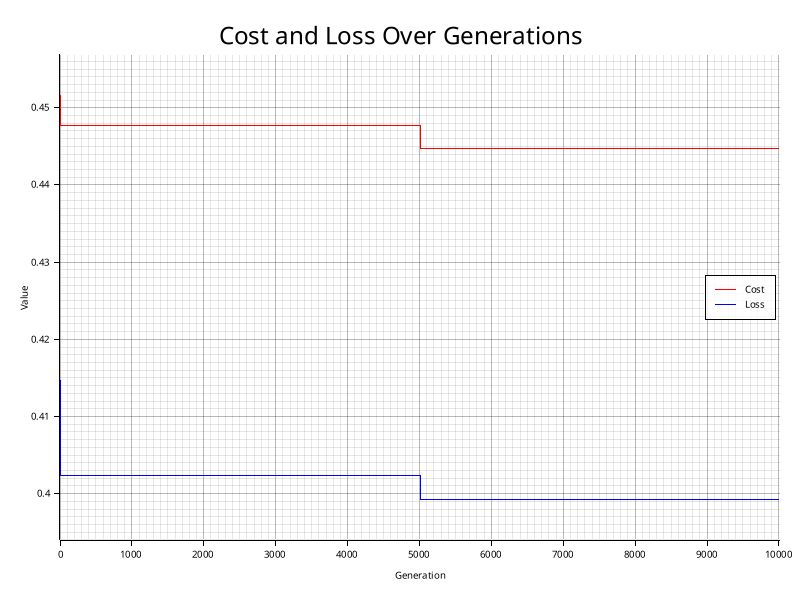
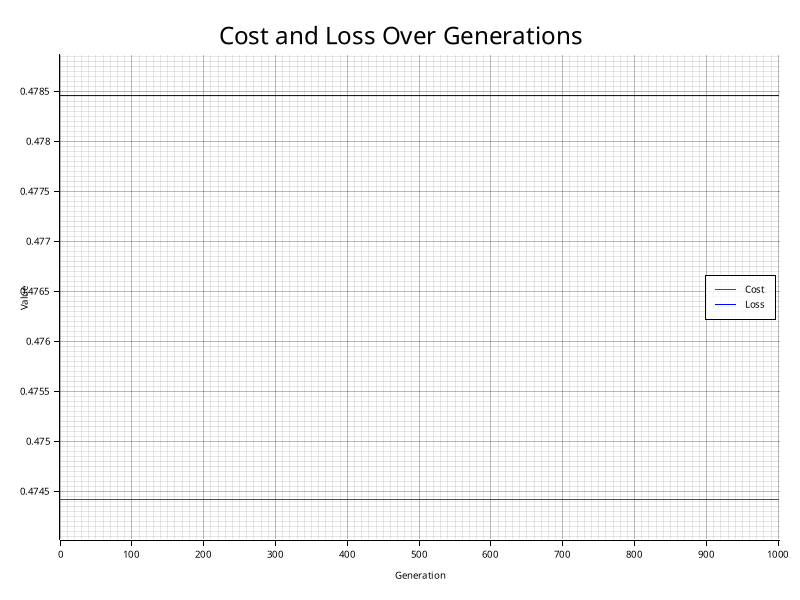
Add multi-run validation and CSV output for optimization results

Changed region(s): [[0.0312, 0.09, 1.0, 0.93]]

diff --git a/src/algorithms/soo/soo.rs b/src/algorithms/soo/soo.rs
@@ -5,8 +5,9 @@ use rand::Rng;
 use crate::{structs::combination::Combination, utils::read_data::read_data};
 use plotters::prelude::*;
 const POPULATION_SIZE: usize = 100;
-const MAX_GENERATIONS: usize = 10000;
+const MAX_GENERATIONS: usize = 1000;
 const TOURNAMENT_SIZE: usize = 3;
+const W : f64 = 0.5;
 
 pub fn generate_population(n: usize) -> Vec<Vec<bool>>{
 
@@ -22,30 +23,29 @@ pub fn generate_population(n: usize) -> Vec<Vec<bool>>{
     return population;
 }
 
-pub fn cost_function(combinations: &Vec<Combination>, solution: &Vec<bool>) -> f64 {
+pub fn cost_function(combinations: &Vec<Combination>, solution: &Vec<bool>, largest_loss:f64, w: f64) -> f64 {
+    let mut loss = get_loss(combinations, solution);
+    loss = loss / largest_loss;
     let mut feature_count = 0;
-    let mut cost = 0.0;
     for feature in solution {
         if *feature {
             feature_count += 1;
         }
     }
-    if feature_count == 0 {
-        return f64::MAX;
-    }
-    
-    cost = get_loss(combinations, solution);
+    let feature_count = feature_count as f64 / solution.len() as f64;
+    let cost = w * loss + (1.0 - w) * feature_count;
+    return cost;
 
-    return cost + (feature_count as f64 / (10.0 * solution.len() as f64) as f64);
+
 }
 
-pub fn tournament_selection(population: &Vec<Vec<bool>>, combinations: &Vec<Combination>) -> Vec<bool> {
+pub fn tournament_selection(population: &Vec<Vec<bool>>, combinations: &Vec<Combination>, largest_loss:f64) -> Vec<bool> {
     let mut rng = rand::rng();
     let mut best_solution = population[rng.random_range(0..population.len())].clone();
-    let mut best_cost = cost_function(combinations, &best_solution);
+    let mut best_cost = cost_function(combinations, &best_solution, largest_loss, W);
     for _ in 0..TOURNAMENT_SIZE {
         let solution = population[rng.random_range(0..population.len())].clone();
-        let cost = cost_function(combinations, &solution);
+        let cost = cost_function(combinations, &solution, largest_loss, W);
         if cost < best_cost {
             best_solution = solution;
             best_cost = cost;
@@ -102,14 +102,20 @@ pub fn get_loss(combinations: &Vec<Combination>, solution: &Vec<bool>) -> f64 {
 pub fn genetic_algorithm(combinations: &Vec<Combination>) -> (Combination, f64, Vec<(f64, f64)>) {
     let n = combinations[0].combination.len();
     let mutation_rate = 1.0 / n as f64;
+    let mut largest_loss = 0.0;
+    for combination in combinations {
+        if combination.loss > largest_loss {
+            largest_loss = combination.loss;
+        }
+    }
 
     let mut population = generate_population(n);
     let mut costs = Vec::new();
-    let mut best_solution: Combination = Combination {combination: Vec::new(), loss: f64::MAX};
-    let mut best_cost = cost_function(&combinations, &best_solution.combination);
+    let mut best_solution: Combination = Combination { combination: population[0].clone(), loss: get_loss(&combinations, &population[0]) };
+    let mut best_cost = cost_function(&combinations, &best_solution.combination, largest_loss, W);
 
     for solution in &population{
-        let cost = cost_function(&combinations, solution);
+        let cost = cost_function(&combinations, solution, largest_loss, W);
         if cost < best_cost {
             best_solution.combination = solution.clone();
             best_solution.loss = get_loss(&combinations, solution);
@@ -122,21 +128,21 @@ pub fn genetic_algorithm(combinations: &Vec<Combination>) -> (Combination, f64, 
     for gen in 0..MAX_GENERATIONS{
         let mut new_population = Vec::new();
         for i in 0..POPULATION_SIZE{
-            let parent1 = tournament_selection(&population, &combinations);
-            let parent2 = tournament_selection(&population, &combinations);
+            let parent1 = tournament_selection(&population, &combinations, largest_loss);
+            let parent2 = tournament_selection(&population, &combinations, largest_loss);
             let (mut child1, mut child2) = single_point_crossover(&parent1, &parent2);
             bit_flip_mutation(&mut child1, mutation_rate);
             bit_flip_mutation(&mut child2, mutation_rate);
             let distance1 = hamming_distance(&parent1, &child1);
             let distance2 = hamming_distance(&parent2, &child2);
             if distance1 < distance2 {
-                if cost_function(&combinations, &child1) < cost_function(&combinations, &parent1) {
+                if cost_function(&combinations, &child1, largest_loss,W) < cost_function(&combinations, &parent1, largest_loss,W) {
                     new_population.push(child1);
                 } else {
                     new_population.push(parent1);
                 }
             } else {
-                if cost_function(&combinations, &child2) < cost_function(&combinations, &parent2) {
+                if cost_function(&combinations, &child2, largest_loss, W) < cost_function(&combinations, &parent2, largest_loss, W) {
                     new_population.push(child2);
                 } else {
                     new_population.push(parent2);
@@ -147,7 +153,7 @@ pub fn genetic_algorithm(combinations: &Vec<Combination>) -> (Combination, f64, 
         population = new_population;
 
         for solution in &population{
-            let cost = cost_function(&combinations, solution);
+            let cost = cost_function(&combinations, solution, largest_loss, W);
             if cost < best_cost {
                 best_solution.combination = solution.clone();
                 best_solution.loss = get_loss(&combinations, solution);
@@ -251,5 +257,65 @@ pub(crate) fn single_output_optimization(path_vec: [&str; 3]) {
         let output_path = format!("output/soo/{}.png", path);
         plot_costs_and_loss(&costs, &output_path);
     }
+
+}
+
+
+pub(crate) fn multi_run_validation(path: &str){
+    let combinations = read_data(&format!("XGB-Feature-Selection/output/{}", path)).unwrap();
+    let mut best_solutions = Vec::new();
+    let mut costs = Vec::new();
+    let mut feauter_counts = Vec::new();
+    let mut losses = Vec::new();
+    for _ in 0..10{
+        let (solution, cost, _) = genetic_algorithm(&combinations);
+        best_solutions.push(solution.clone());
+        costs.push(cost);
+        let mut feature_count = 0;
+        for feature in &solution.combination {
+            if *feature {
+                feature_count += 1;
+            }
+        }
+        feauter_counts.push(feature_count);
+        losses.push(solution.loss);
+    }
+    let mut mean_best_cost = 0.0;
+    let mut mean_feature_count = 0.0;
+    let mut mean_loss = 0.0;
+
+    for cost in &costs {
+        mean_best_cost += *cost;
+    }
+    mean_best_cost /= costs.len() as f64;
+    for feature_count in &feauter_counts {
+        mean_feature_count += *feature_count as f64;
+    }
+    mean_feature_count /= feauter_counts.len() as f64;
+    for loss in &losses {
+        mean_loss += *loss;
+    }
+    mean_loss /= losses.len() as f64;
+
+    
+    
+    mean_best_cost /= best_solutions.len() as f64;
+    println!("Mean Best Cost: {}", mean_best_cost);
+    println!("Mean Feature Count: {}", mean_feature_count);
+    println!("Mean Loss: {}", mean_loss);
+    let output_path = format!("src/output/soo/{}_histogram.png", path);
+    //plot_histogram(&best_solutions, &output_path);
+    let csv_path = format!("src/output/soo/{}.csv", path);
+    save_data_to_csv(&csv_path, costs.len(), mean_feature_count, mean_loss, mean_best_cost);
+}
+
+
+// Make a function that save data from the run to a csv file.
+fn save_data_to_csv(path: &str,run_counts:usize, mean_feature_count: f64, mean_loss: f64, mean_best_cost: f64){
+    let mut wtr = csv::Writer::from_path(path).unwrap();
+    wtr.write_record(&["Run Counts","Mean Feature Count", "Mean Loss", "Mean Best Cost"]).unwrap();
+    wtr.write_record(&[run_counts.to_string() ,mean_feature_count.to_string(), mean_loss.to_string(), mean_best_cost.to_string()]).unwrap();
+    wtr.flush().unwrap();
+
 
 }

diff --git a/src/main.rs b/src/main.rs
@@ -6,5 +6,6 @@ use crate::algorithms::soo::soo; // Import the hello function from soo module
 
 fn main() {
     // Call the hello function from pso.rs
-    soo::single_output_optimization(["breast_cancer_wisconsin_original", "titanic", "wine_quality_combined"]);
+    //soo::single_output_optimization(["breast_cancer_wisconsin_original", "titanic", "wine_quality_combined"]);
+    soo::multi_run_validation("breast_cancer_wisconsin_original");
 }
